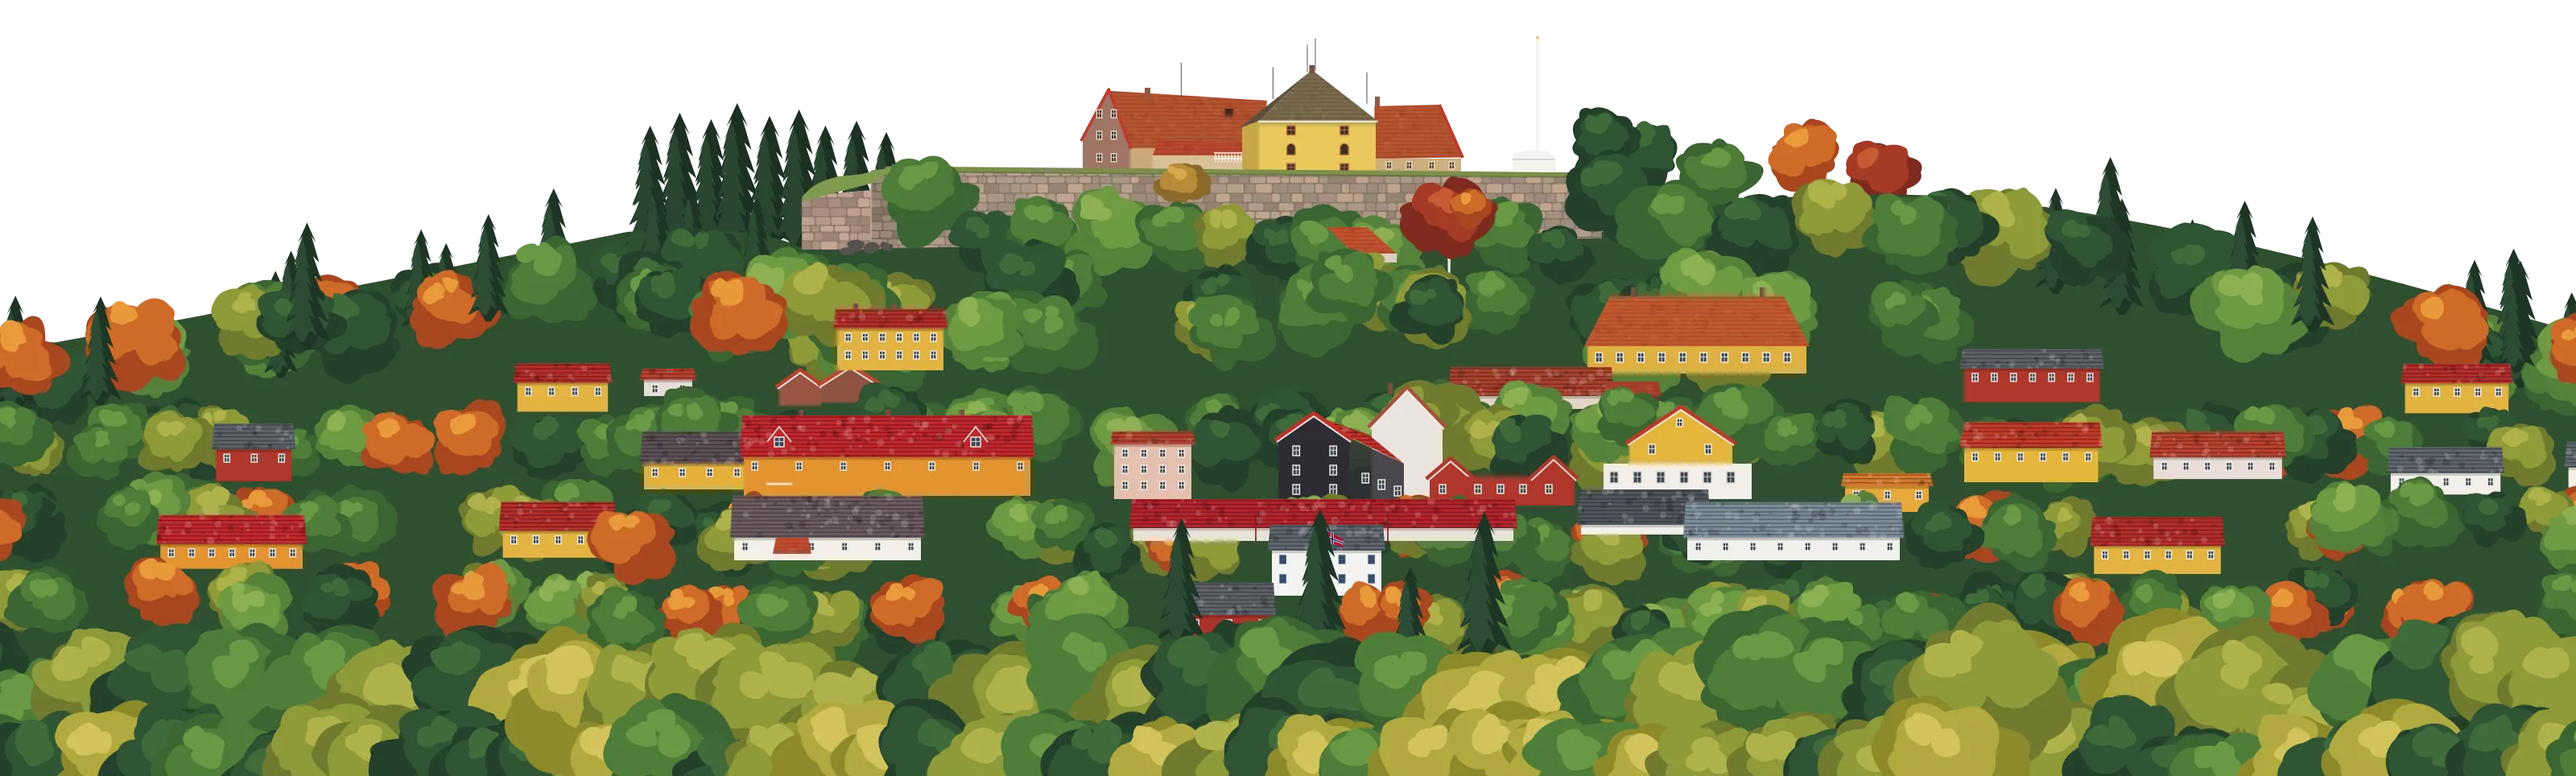
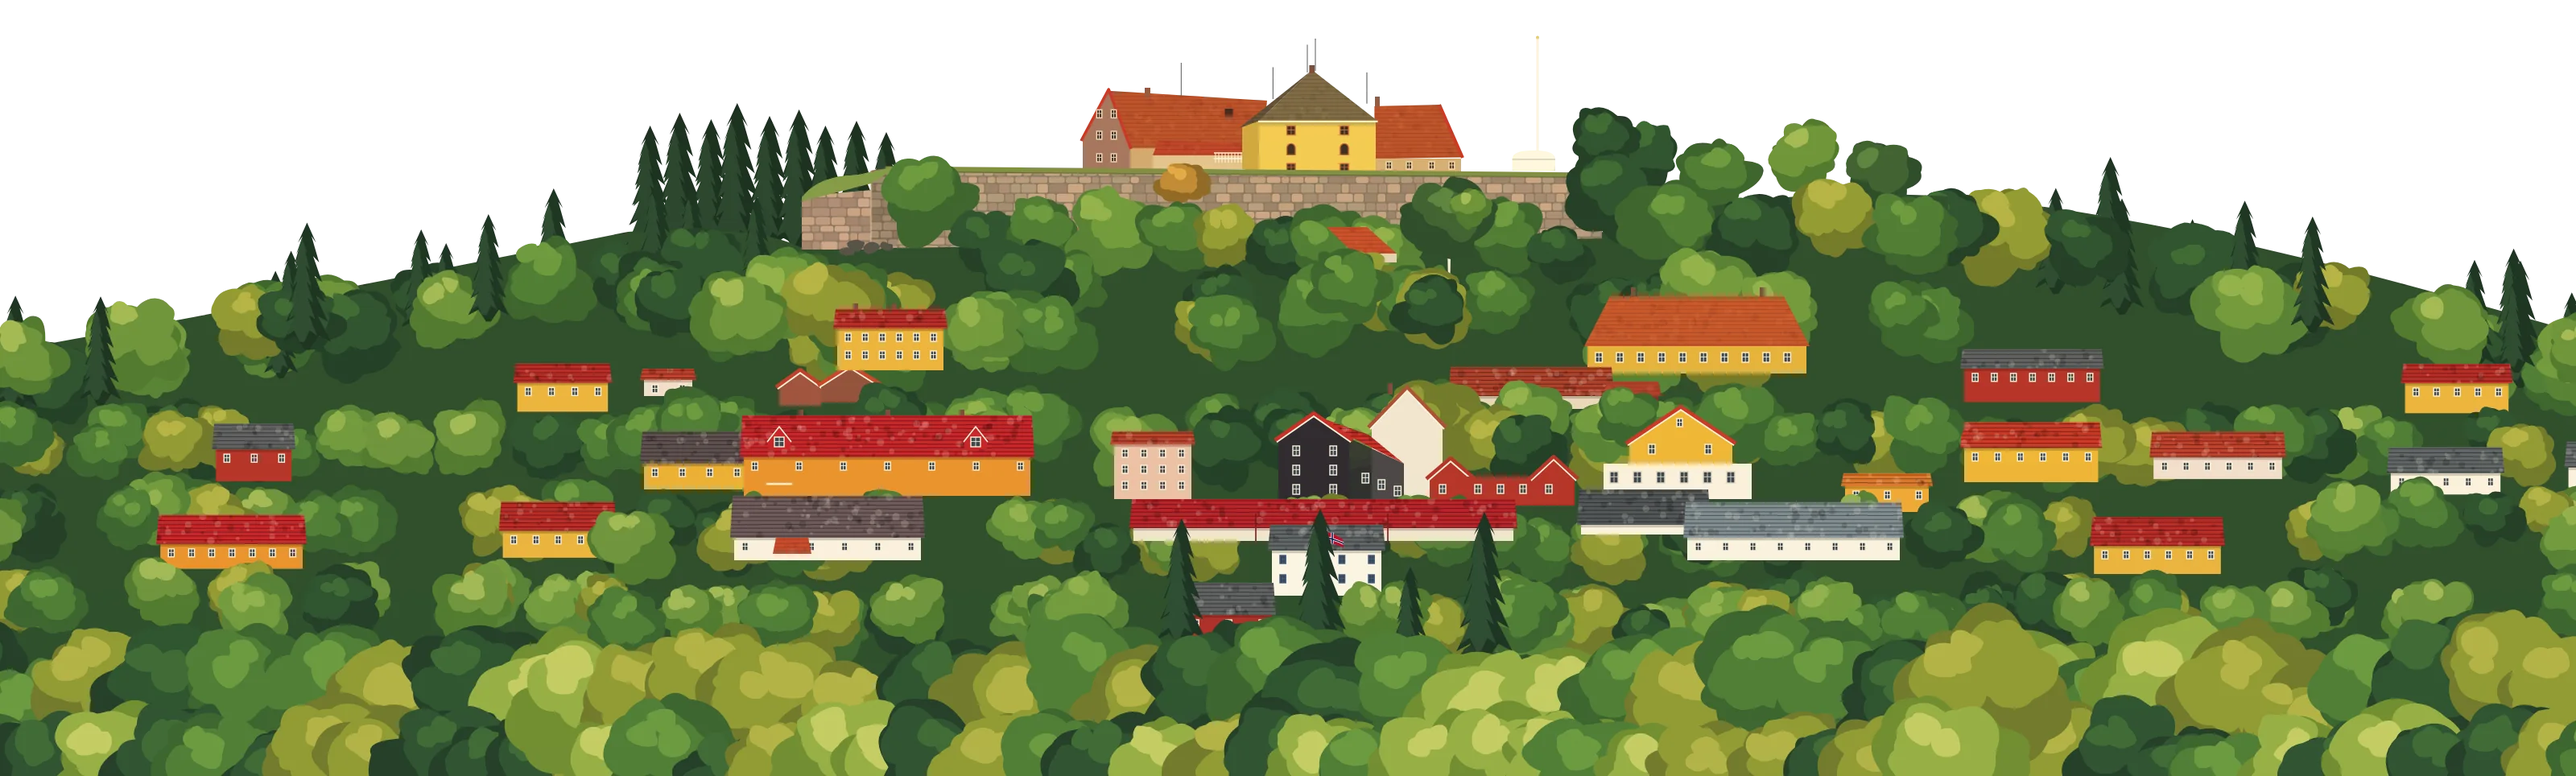
Festningen i sensommer og ettermiddagslys: én dag langs Glomma
Landskapet under Om oss var høst (oransje og røde trær) mens fotoet øverst er
sommer og brua nederst er skumring. Nå er trærne sensommergrønne (samme
tilfeldige frø, så hvert tre står der det stod), og et varmt ettermiddagslys
legger seg over åsen. Siden går gjennom én sommerdag: midt på dagen øverst,
ettermiddag på festningen, skumring ved brua.

diff --git a/tools/tegn_landskap.py b/tools/tegn_landskap.py
@@ -1,7 +1,9 @@
 """Draws the landscape at the foot of the «Om oss» section: Kongsvinger
 festning on its hill (the stone wall and bastion, the brick gable, the rust
 roofs, the yellow block, the flagpole), the trees on the slope and the old
-town's painted houses below, in autumn.
+town's painted houses below, in late summer (the same season as the
+photograph at the top of the page; it was autumn until 2026-10-09: the old
+colours are in git history).
 
 Drawn from a photograph used only as a reference: «Kongsvinger festning 02»
 by Kongsvinger kommune (CC BY 2.0, Wikimedia Commons). Coordinates are those
@@ -160,9 +162,9 @@ GM = ("#24402B", "#2F5434", "#3E6B3A")
 G = ("#3B6532", "#4E7E3A", "#6A9944")
 GL = ("#56823A", "#6F9A42", "#8DB052")
 OL = ("#6F7A2E", "#8E9A38", "#AEB24A")
-GUL = ("#8C8A2C", "#B2A93E", "#D2C25A")
-ORA = ("#A8471F", "#CF6A28", "#E89A3A")
-ROD = ("#7E2A1F", "#A63A26", "#C95A33")
+GUL = ("#6F8E35", "#93AE48", "#BFCB68")
+ORA = ("#4F7A33", "#6C9440", "#9DB85A")
+ROD = ("#2E4D30", "#3F6338", "#5B8545")
 
 
 # ---------- to both sides, for wide screens ----------
@@ -194,7 +196,7 @@ def sider():
             for _ in range(14):
                 cx = random.uniform(830, 1210) if side > 0 else random.uniform(-410, -20)
                 tre(cx, y + random.uniform(14, 30), random.uniform(16, 24), random.choice([G, GM, GL, OL, ORA]))
-    # the autumn trees in front
+    # the broadleaf trees in front
     for x0, x1 in [(-430, -20), (820, 1230)]:
         x = x0
         while x < x1:
@@ -210,8 +212,8 @@ def scene():
     for x, top in [(4, 196), (22, 188), (40, 192), (58, 182), (78, 190), (96, 186), (114, 196), (132, 193), (150, 200)]:
         gran(x + random.uniform(-2, 2), 275, 275 - top, "#1C3123", "#2A4632")
     tre(620, 214, 24, ("#24402B", "#2F5434", "#3E6B3A"))
-    tre(722, 214, 22, ("#A8471F", "#CF6A28", "#E89A3A"))
-    tre(768, 226, 22, ("#7E2A1F", "#A63A26", "#C95A33"))
+    tre(722, 214, 22, ("#4F7A33", "#6C9440", "#9DB85A"))
+    tre(768, 226, 22, ("#2E4D30", "#3F6338", "#5B8545"))
     tre(668, 226, 22, ("#3B6532", "#4E7E3A", "#6A9944"))
 
     # the hill itself, under everything below the wall
@@ -283,9 +285,9 @@ def scene():
     G = ("#3B6532", "#4E7E3A", "#6A9944")
     GL = ("#56823A", "#6F9A42", "#8DB052")
     OL = ("#6F7A2E", "#8E9A38", "#AEB24A")
-    GUL = ("#8C8A2C", "#B2A93E", "#D2C25A")
-    ORA = ("#A8471F", "#CF6A28", "#E89A3A")
-    ROD = ("#7E2A1F", "#A63A26", "#C95A33")
+    GUL = ("#6F8E35", "#93AE48", "#BFCB68")
+    ORA = ("#4F7A33", "#6C9440", "#9DB85A")
+    ROD = ("#2E4D30", "#3F6338", "#5B8545")
     for x, base, h in [(8, 300, 70), (30, 296, 62), (70, 300, 60)]:
         gran(x, base, h)
     tre(176, 240, 28, G)
@@ -375,7 +377,7 @@ def scene():
     rad_traer(492, 512, 36, [G, GM, OL, GL, ORA], rmin=17, rmax=24, unnga=[(330, 396, 470, 520)])
     hus_lang(336, 526, 54, 26, 20, "#A8322B", "#5D6168", rader=2, kol=3)
 
-    # ---------- the autumn birches in front ----------
+    # ---------- the birches in front ----------
     for x, base, h in [(334, 520, 80), (420, 530, 96), (522, 528, 92), (476, 540, 70)]:
         gran(x, base, h)
     x = -30
@@ -391,6 +393,22 @@ def scene():
 KROM = r"C:\Program Files\Google\Chrome\Application\chrome.exe"
 MAPPE = os.path.join(os.path.dirname(__file__), "tegninger")
 PUBLIC = os.path.join(os.path.dirname(__file__), "..", "public", "images", "tegninger")
+
+
+def ettermiddag(bilde):
+    """Late-afternoon light: the page runs through one summer day, from the
+    midday photograph at the top to the bridge at dusk in the footer, and the
+    hill sits in between. A warm glaze, strongest on the treetops and the
+    fortress up top, fading down the slope. Alpha is left alone."""
+    import numpy as np
+    from PIL import Image
+
+    a = np.asarray(bilde).astype(np.float32)
+    h = a.shape[0]
+    styrke = np.linspace(1.0, 0.45, h, dtype=np.float32)[:, None]
+    for kanal, varme in enumerate((1.055, 1.012, 0.9)):
+        a[..., kanal] *= 1 + styrke * (varme - 1)
+    return Image.fromarray(np.clip(a + 0.5, 0, 255).astype(np.uint8), "RGBA")
 
 
 def skriv(navn, viewbox, med_sider, skala):
@@ -420,7 +438,7 @@ def skriv(navn, viewbox, med_sider, skala):
     )
     os.makedirs(PUBLIC, exist_ok=True)
     webp = os.path.join(PUBLIC, navn + ".webp")
-    Image.open(png).convert("RGBA").save(webp + ".tmp", "WEBP", quality=84, method=6)
+    ettermiddag(Image.open(png).convert("RGBA")).save(webp + ".tmp", "WEBP", quality=84, method=6)
     os.replace(webp + ".tmp", webp)
     print("wrote", os.path.normpath(webp), f"{b}x{h}", os.path.getsize(webp) // 1024, "KB")
 
